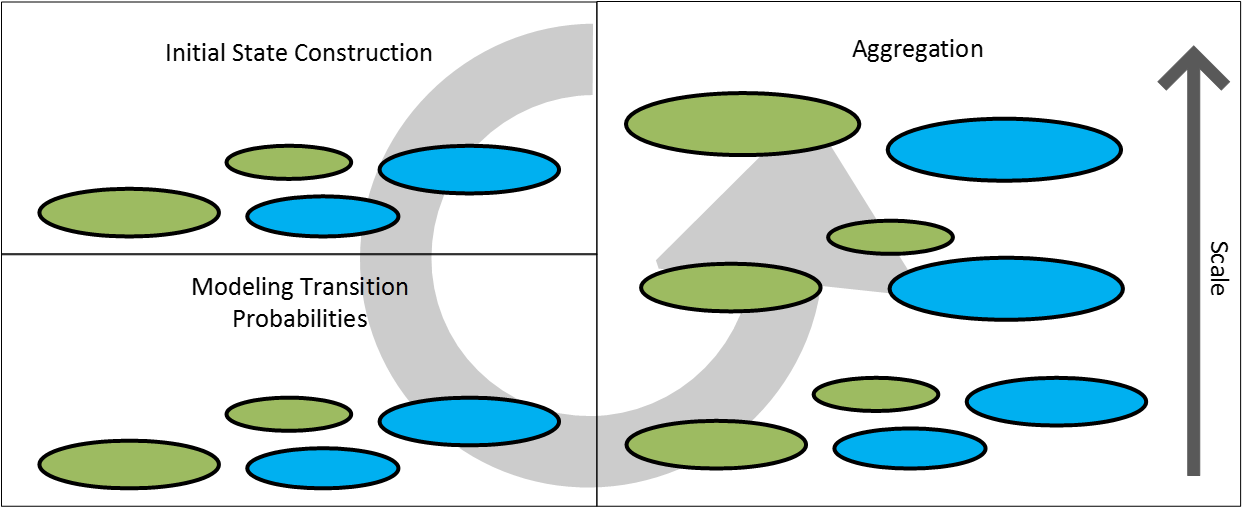
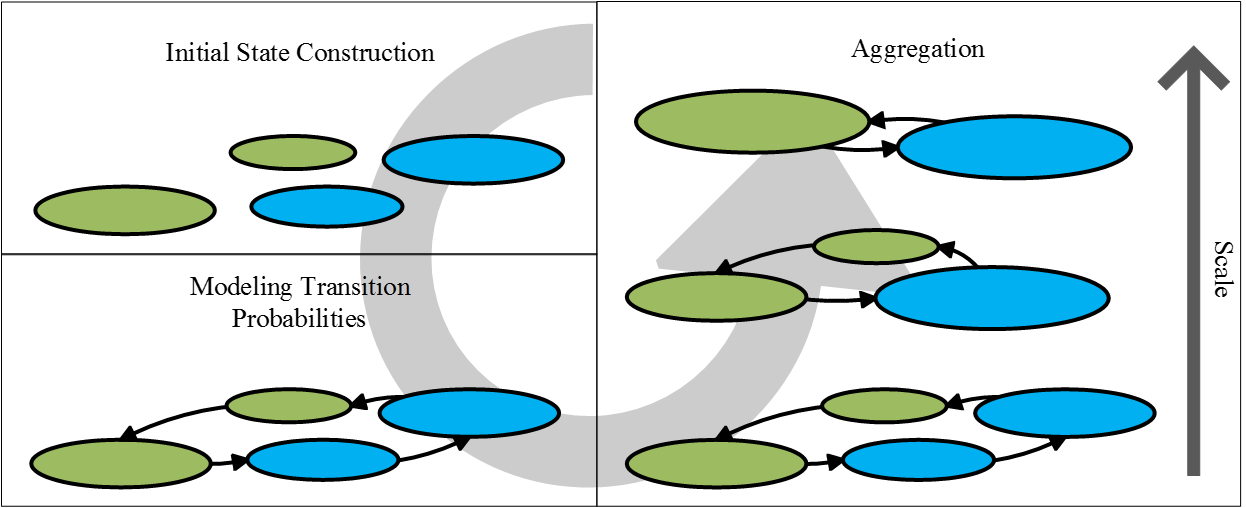
added the new picture of the methodology

diff --git a/Vis/multiscale_framework.tex b/Vis/multiscale_framework.tex
@@ -107,26 +107,19 @@ As stated in Section \ref{sec:preliminaries} we associate each scale $s$ with a 
 function $\lstopar{f_s}: \mathbb{R}^d \rightarrow \lstopar{I_s}$. At the finest scale, we use the 
 partition function \lstopar{$f: A \rightarrow B$ [TODO the function]} as defined in Section \ref{sec:framework-states}, inducing state space $I$. We then compute the partition
 function for coarser scales by aggregating elements in $\Ima \lstopar{f}$, inducing state space $I_s$.
-Thus $I_s$ represents a partition of $I$.
+Thus $I_s$ represents a partition of $I$ and is determined by a map $\phi_s: I \rightarrow I_s$. This
+way $f_s$ can be represented as a compositum $f_s = f \circ \phi_s$.
 
-\newpage
-
-Once we have computed the lowest level Markov chain $(X_t)_{t \ge 0}$, we need to be able to represent it on multiple scales.
-As stated in Section \ref{sec:preliminaries} we associate each scale $s$ with a specific partition function
-$\lstopar{f_s}: \mathbb{R}^d \rightarrow \lstopar{I_s}$ where coarser partitions are generated by merging 
-states of finer partitions.
-Suppose we have already computed the finest level partition $\lstopar{\cP}$, inducing state space $I$ and the
-coarser partition at scale $\lstopar{\cP_s}$, inducing state space $J$. Suppose the finest level Markov chain,
-on state space $I$ is represented by a transition rate matrix $Q$ and define a surjective partition function
-$\phi: I \rightarrow J$. To compute the Markov chain induced by state space $J$, we adapt a formula proposed
-in \cite{5746509} to continuous time Markov chains. We define a \lstopar{transition rate matrix transformation function}
-$\Phi: \mathbb{R}^{n \times n} \rightarrow \mathbb{R}^{m \times m}$ using formula \ref{eq:ctmc-state-aggregation}.
+We represent the Markov chain $(X_t^{(s)})_{t \ge 0}$ induced by state space $I_s$ with a transition
+rate matrix $Q^{(s)}$. To compute $Q^{(s)}$, we adapt the formula
+proposed in \cite{5746509} to continuous time Markov chains. We define a partition function
+$\Phi: \mathbb{R}^{n \times n} \rightarrow \mathbb{R}^{m \times m}$ with $m \le n$ using formula \ref{eq:ctmc-state-aggregation}.
 \begin{equation}
 	\label{eq:ctmc-state-aggregation}
-	\Phi(Q) = \tilde{Q} = (P' \Pi P)^{-1} P' \Pi Q P
+	\Phi(Q) = (P' \Pi P)^{-1} P' \Pi Q P
 \end{equation}
-where $\Pi = diag(\pi)$ and $\pi = (\pi_1, \pi_2, ..., \pi_n)$ is the stationary distribution of $(X_t)_{t \ge 0}$, while $P$ is a 
-$|I| \times |J|$ partition matrix with elements
+where $\Pi = diag(\pi)$, $\pi$ is the stationary distribution of $(X_t)_{t \ge 0}$ and $P$ is a 
+$n \times m$ matrix with elements
 \begin{equation}
 	\nonumber
 	\left(P\right)_{ij} = 
@@ -137,8 +130,52 @@ $|I| \times |J|$ partition matrix with elements
 			\end{array}
 		\right.
 \end{equation}
-If we define $\psi = \phi \circ \phi$, then Equation \ref{eq:ctmc-state-aggregation} can be rewritten as
+Thus the data needed to represent a Markov chain at a specific scale $s$ is obtained by applying \ref{eq:ctmc-state-aggregation}
+is obtained as $Q^{(s)} = \Phi(Q)$.
+If we define $\psi = \phi \circ \phi^{-1}$, then Equation \ref{eq:ctmc-state-aggregation} can be rewritten as
+\begin{equation}
+	\nonumber
+	q_{\phi(i)\phi(j)}^{(s)} = \frac{\sum\limits_{i \in \psi(i)}\pi_i \sum\limits_{j \in \psi(j)} q_{ij}}{\sum\limits_{i \in \psi(i)}\pi_i}
+\end{equation}
+We note that $\pi^{(s)}$, the stationary distribution of $(X_t^{(s)})_{t \ge 0}$, can be computed directly from
+the stationary distribution of the original chain $(X_t)_{t \ge 0}$ by the following rule:
+\begin{equation}
+	\nonumber
+	\pi^{(s)} = \pi P
+\end{equation}
+
+\iffalse
+\newpage
+
+Once we have computed the lowest level Markov chain $(X_t)_{t \ge 0}$, we need to be able to represent it on multiple scales.
+As stated in Section \ref{sec:preliminaries} we associate each scale $s$ with a specific partition function
+$\lstopar{f_s}: \mathbb{R}^d \rightarrow \lstopar{I_s}$ where coarser partitions are generated by merging 
+states of finer partitions.
+Suppose we have already computed the finest level partition $\lstopar{\cP}$, inducing state space $I$ and the
+coarser partition at scale $\lstopar{\cP_s}$, inducing state space $J$. Suppose the finest level Markov chain,
+on state space $I$ is represented by a transition rate matrix $Q$ and define a surjective partition function
+$\phi: I \rightarrow J$. To compute the Markov chain induced by state space $J$, we adapt a formula proposed
+in \cite{5746509} to continuous time Markov chains. We define a partition function
+$\Phi: \mathbb{R}^{n \times n} \rightarrow \mathbb{R}^{m \times m}$ with $m \le n$ using formula \ref{eq:ctmc-state-aggregation}.
+\begin{equation}
+	\label{eq:ctmc-state-aggregation}
+	\Phi(Q) = \tilde{Q} = (P' \Pi P)^{-1} P' \Pi Q P
+\end{equation}
+where $\Pi = diag(\pi)$, $\pi$ is the stationary distribution of $(X_t)_{t \ge 0}$ and $P$ is a 
+$n \times m$ matrix with elements
+\begin{equation}
+	\nonumber
+	\left(P\right)_{ij} = 
+		\left\{
+			\begin{array}{ll}
+				1 & \mbox{if } \phi(i) = j \\
+				0 & \mbox{otherwise}.
+			\end{array}
+		\right.
+\end{equation}
+If we define $\psi = \phi \circ \phi^{-1}$, then Equation \ref{eq:ctmc-state-aggregation} can be rewritten as
 \begin{equation}
 	\nonumber
 	\tilde{q}_{\phi(i)\phi(j)} = \frac{\sum\limits_{i \in \psi(i)}\pi_i \sum\limits_{j \in \psi(j)} q_{ij}}{\sum\limits_{i \in \psi(i)}\pi_i}
 \end{equation}
+\fi
